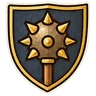
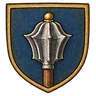
Ikony vlastností zbraní: nová jednotná sada 17 štítků (zv-), včetně šesti nových vlastností
Všech 17 vlastností zbraní z Artikulí má malovanou ikonu ve stejném stylu (štítek s ocelovým polem) – stávajících 11
je nahrazeno novou sadou, Krvežíznivá, Omračující, Ničivá, Odvetná, Přibodnutí a Nepřímá dostaly ikonu poprvé.
Rozřezáno z jednoho listu, 48 a 96 px, ověřeno ve 24 px na světlém i tmavém pozadí.

Claude-Session: https://claude.ai/code/session_01H7UjBby2XPCHU25vYsmJcQ

diff --git a/zdroj/web/js/02-mapa.js b/zdroj/web/js/02-mapa.js
@@ -646,8 +646,7 @@ const BVLZ={"Krvežíznivá":"Požehnání: cíl bez Resistance vůči typu zran
   "Hrom a kouř!":"Požehnání: střelce zahalí dým a má na 1 kolo výhodu proti útokům zblízka. Pokušení: zbraň selže a před dalším výstřelem ji musíš vyčistit (bonusová akce); minul-li jsi a u cíle stojí spojenec, zasáhneš spojence; při 1 na d20 a 1 na Závoji zbraň vybuchne (2d8 Fire střelci)."};
 const BZBR={"Vycpávaná":["Bludgeoning","1×"],"Kroužková":["Bludgeoning, Slashing","2×"],"Plátová":["Slashing, Piercing","3×"],"Komplexní":["Bludgeoning, Slashing, Piercing","3×"],"Štít":["—","1×"]};
 /* malované ikony vlastností zbraní (zv-), typů zranění (zr-) a zbrojí (zb-) – art/img/boj, zadání vyvoj/ikony-boj.md */
-/* nové vlastnosti (Krvežíznivá, Omračující, Ničivá, Odvetná, Přibodnutí, Nepřímá) zatím ikonu nemají – zobrazí se jen jménem */
-const BZVK={"Drtivá":"drtiva","Průrazná":"prurazna","Šikovná":"sikovna","Ostrá":"ostra","Půlmeč":"pulmec","Do slabin!":"do-slabin","Ratiště":"ratiste","Strhující":"strhujici","Vpřed!":"vpred","Štěpící":"stepici","Hrom a kouř!":"hrom-a-kour"};
+const BZVK={"Krvežíznivá":"krvezizniva","Omračující":"omracujici","Ničivá":"niciva","Odvetná":"odvetna","Přibodnutí":"pribodnuti","Nepřímá":"neprima","Drtivá":"drtiva","Průrazná":"prurazna","Šikovná":"sikovna","Ostrá":"ostra","Půlmeč":"pulmec","Do slabin!":"do-slabin","Ratiště":"ratiste","Strhující":"strhujici","Vpřed!":"vpred","Štěpící":"stepici","Hrom a kouř!":"hrom-a-kour"};
 const BZRT={Bludgeoning:"Drtivé",Piercing:"Bodné",Slashing:"Sečné",Fire:"Ohnivé",Cold:"Mrazivé",Lightning:"Bleskové",Thunder:"Hromové",Acid:"Kyselinové",Poison:"Jedové",Necrotic:"Prokleté",Radiant:"Svaté",Psychic:"Psychické",Force:"Silové"};
 const BZBK={"Vycpávaná":"vycpavana","Kroužková":"krouzkova","Plátová":"platova","Komplexní":"komplexni","Štít":"stit"};
 const bikE=t=>String(t).replace(/[&<>"]/g,c=>({"&":"&amp;","<":"&lt;",">":"&gt;",'"':"&quot;"}[c]));
